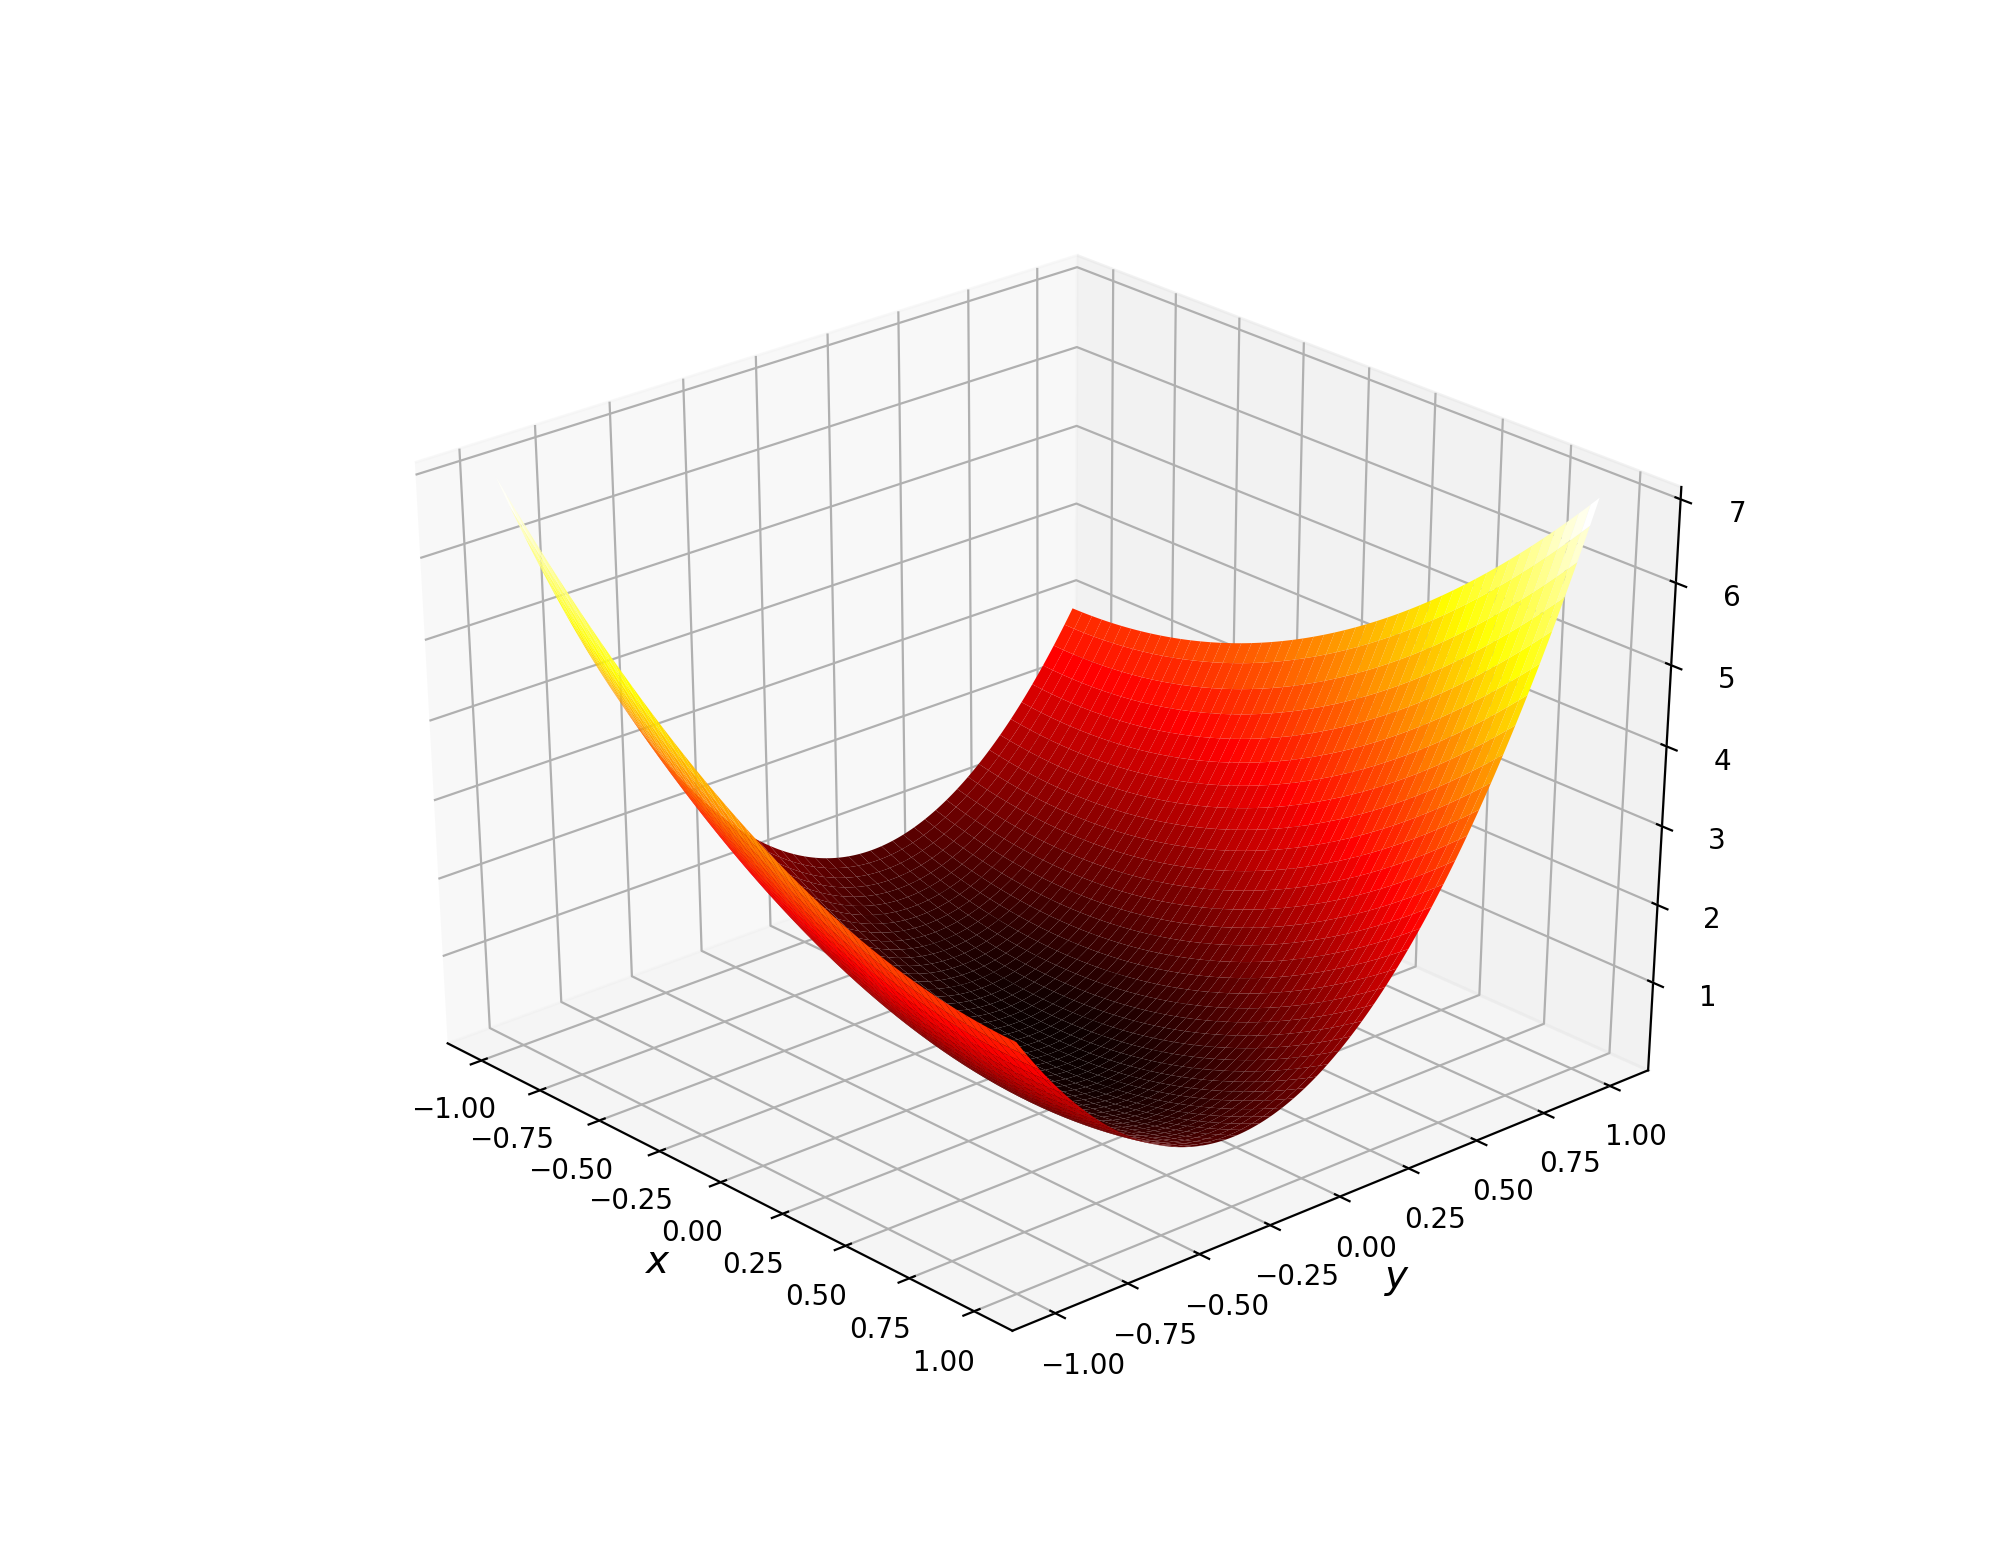
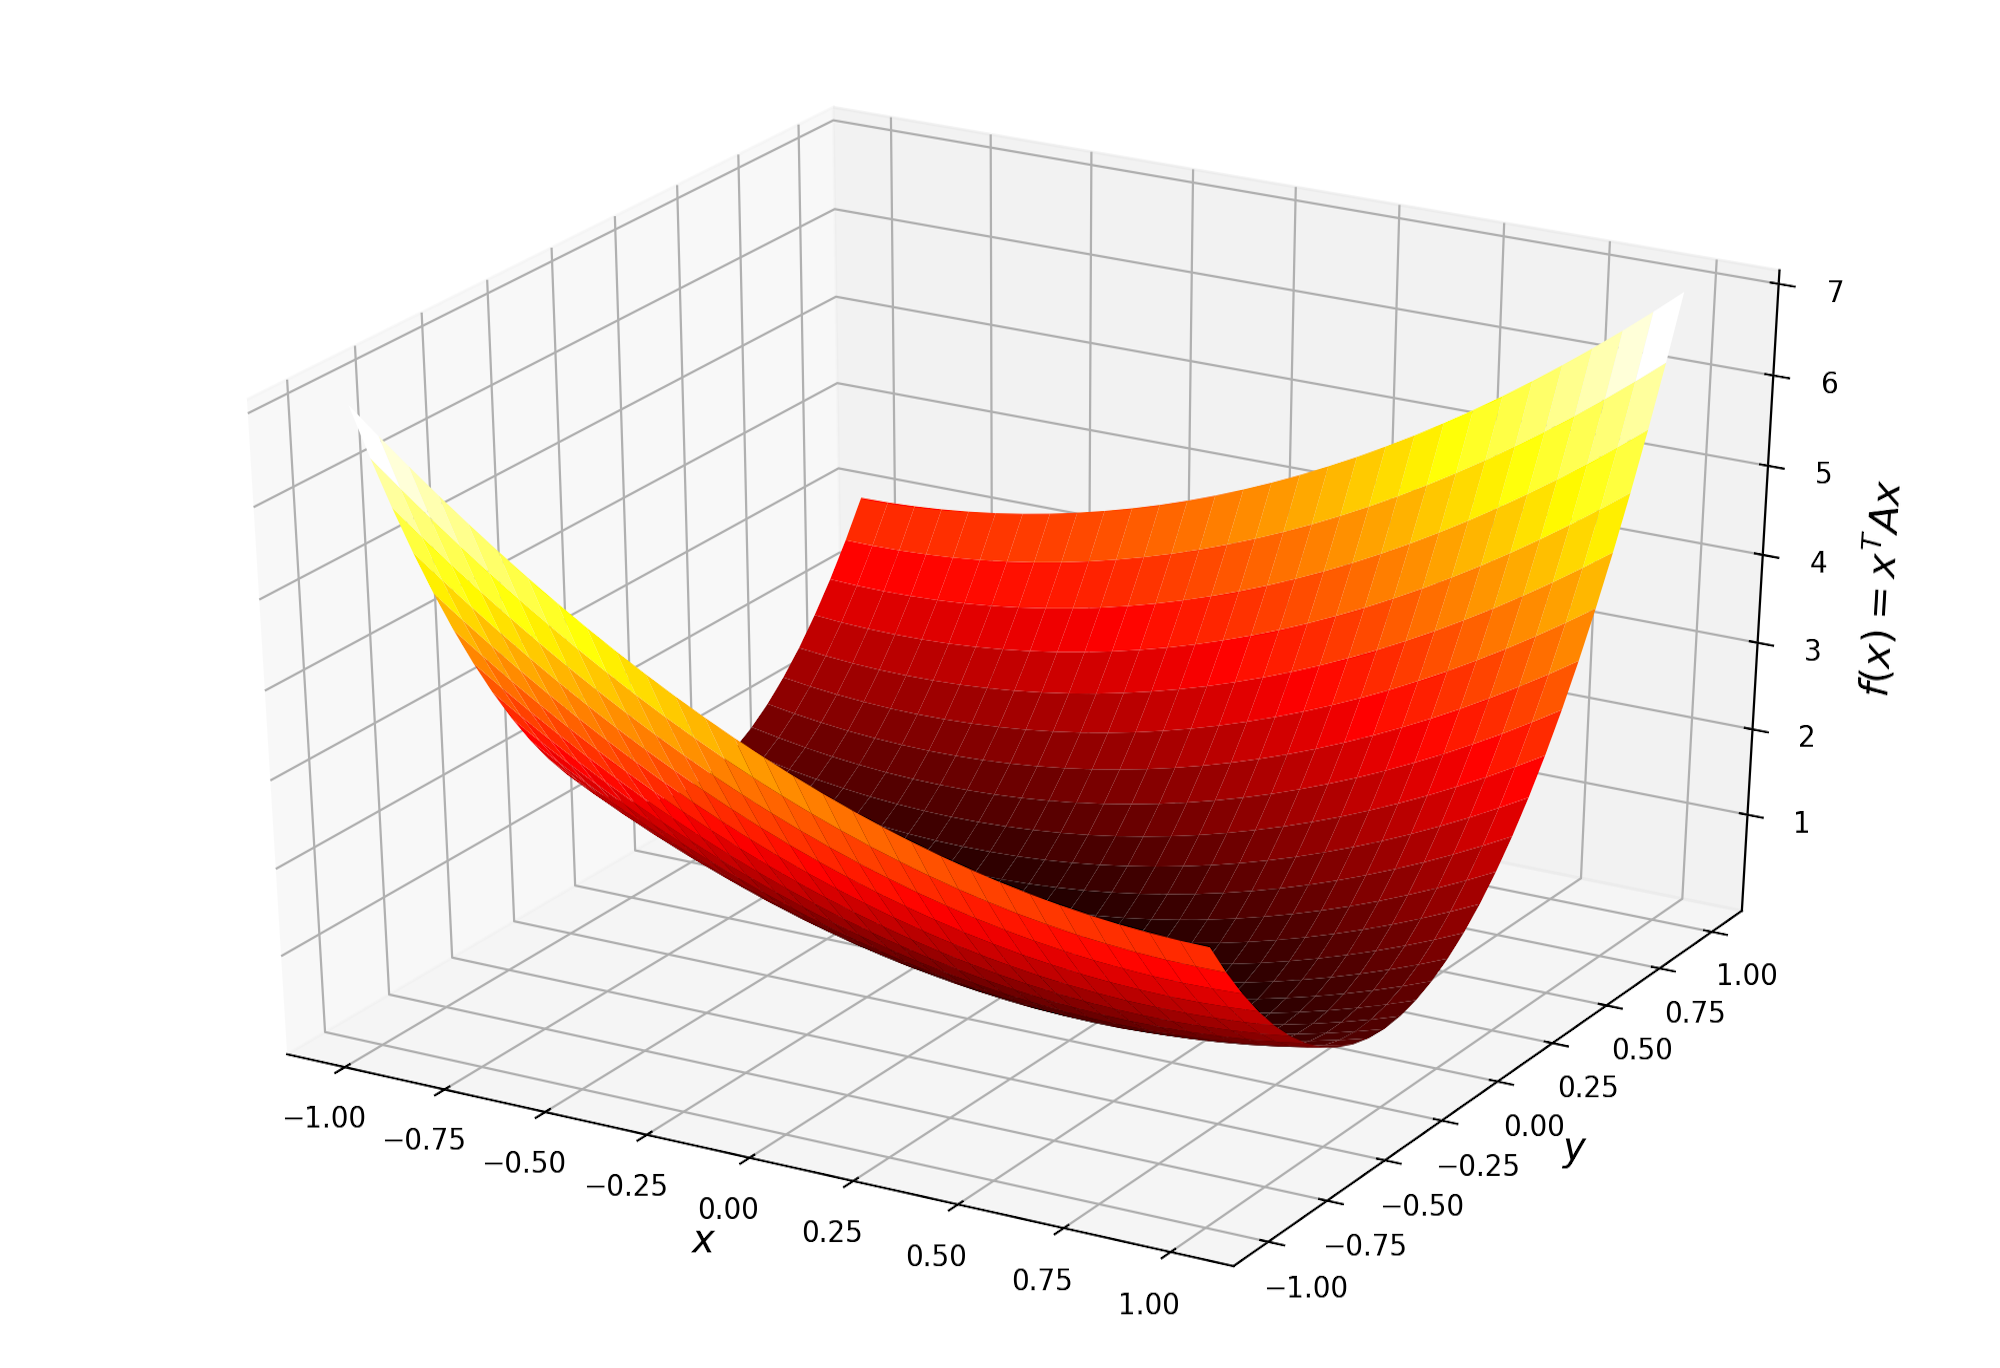
Finish grid sampling

diff --git a/assets/code/grid_sampling_quadratic_plots.py b/assets/code/grid_sampling_quadratic_plots.py
@@ -66,11 +66,11 @@ def plot_sinc_surface():
     fig = plt.figure(figsize=(10, 10))
     ax = fig.add_subplot(111, projection="3d")
     ax.plot_surface(X, Y, Z, cmap="hot")
-    ax.set_title(r"$\sin(\pi * \sqrt{x^2+y^2})/\sqrt{x^2+y^2}$")
+    ax.set_title(r"$\sin\left(\pi * \sqrt{x^2+y^2}\right)/\pi\sqrt{x^2+y^2}$")
     ax.set_xlabel(r"$x$", fontsize=14)
     ax.set_ylabel(r"$y$", fontsize=14)    
 
-    r = np.linspace(0, 6, 50) + 1e-6
+    r = np.hstack([np.arange(0, 1, 0.1/2) + 1e-6, np.linspace(1, 6, 30)])
     theta = np.linspace(0, 2 * np.pi, 100)
     R, Theta = np.meshgrid(r, theta)
 
@@ -79,7 +79,7 @@ def plot_sinc_surface():
     fig = plt.figure(figsize=(10, 10))
     ax = fig.add_subplot(111, projection="3d")
     ax.plot_surface(X, Y, Z, cmap="hot")
-    ax.set_title(r"$\sin(\pi * \sqrt{x^2+y^2})/\sqrt{x^2+y^2}$")
+    ax.set_title(r"$\sin\left(\pi * \sqrt{x^2+y^2}\right)/\pi\sqrt{x^2+y^2}$")
     ax.set_xlabel(r"$x$", fontsize=14)
     ax.set_ylabel(r"$y$", fontsize=14)    
 
@@ -89,7 +89,7 @@ def plot_gaussian_surface():
     
     correlation = 0.0
     var_x = 1
-    var_y = 9
+    var_y = 2
     cov_xy = correlation * np.sqrt(var_x * var_y)
     var_mat = np.asarray([[var_x, cov_xy], [cov_xy, var_y]])
 
@@ -123,8 +123,8 @@ def plot_gaussian_surface():
     plt.contour(X,Y,Z)
     ax = fig.add_subplot(111, projection="3d")
     ax.plot_surface(X, Y, Z, cmap="hot")
-    ax.set_xlim([-16,16])
-    ax.set_ylim([-16,16])
+    ax.set_xlim([-7,7])
+    ax.set_ylim([-7,7])
     ax.set_title(r"Gaussian Distribution")
     ax.set_xlabel(r"$x$", fontsize=14)
     ax.set_ylabel(r"$y$", fontsize=14)    
@@ -149,7 +149,7 @@ def plot_elongated_paraboloid(with_grid=False):
     ax.set_xlabel(r"$x$", fontsize=14)
     ax.set_ylabel(r"$y$", fontsize=14)    
     ax.set_zlabel(r"$f(x) = x^TAx$", fontsize=14)  
-    ax.tight_layout()
+    plt.tight_layout()
 
     r = np.linspace(0, 2, 20)
     theta = np.linspace(0, 2*np.pi, 50)
@@ -174,15 +174,15 @@ def plot_elongated_paraboloid(with_grid=False):
     ax.set_xlabel(r"$x$", fontsize=14)
     ax.set_ylabel(r"$y$", fontsize=14)  
     ax.set_zlabel(r"$f(x) = x^TAx$", fontsize=14)  
-    ax.tight_layout()
+    plt.tight_layout()
 
 
 if __name__ == "__main__":
     center = np.asarray([0.25, -0.25]).reshape((-1,1))
     plot_elongated_paraboloid(with_grid=False)
     plot_elongated_paraboloid(with_grid=True)
-    # plot_sinc_surface()
-    # plot_gaussian_surface()
+    plot_sinc_surface()
+    plot_gaussian_surface()
     plot_rectangular_grid(mode="h")
     plot_rectangular_grid(mode="v")
     plot_ellipse_grid([-3,3],[-3,3], mode="h")

diff --git a/_drafts/2019-10-20-3d-plotting-using-non-rectangular-grids.md b/_drafts/2019-10-20-3d-plotting-using-non-rectangular-grids.md
@@ -12,14 +12,9 @@ toc_label:
 # classes: wide
 excerpt: ""
 header: 
-  overlay_image: assets/images/shakespeare-zipf-param-surface-splash.png
+  overlay_image: assets/images/grid-sampling-polar-sinc.png
   overlay_filter: 0.2
 ---
-
-TODO:
-  - Change first plots to be consistent with coarser plot shown at the end
-  - Add plot at the end including the scatter grid
-  - Some examples. Gaussian, sinc function
 
 # The Problem with Rectangular Grids
 The standard way of creating contour and surface plots of a function $$f:\mathbf{R}^2 \rightarrow \mathbf{R}$$ is first creating a rectangular grid of $$(x,y)$$ coordinates (using something like `meshgrid`), then evaluating the function $$f$$ elementwise at each $$(x,y)$$ pair. For the most part this is fine, but there are some situations where it can really distort your view of the surface's true shape. 
@@ -41,13 +36,14 @@ y
 \end{bmatrix}
 $$
 
-Plotting this on a rectangular grid we get a 3D plot like left image in Figure 1. From the definition of the function, we know the graph should be an upward facing paraboloid. Looking at the figure however, it is not obvious that this is what is plotted. What we would like to see is something more like the image on the right. The rest of this post will explain how this surface is plotted and propose some other cases it might be useful.
+Plotting this on a rectangular grid we get a 3D plot like the left image in Figure 1. From the definition of the function, we know the graph should be an upward facing paraboloid. Looking at the figure however, it is not obvious that this is what is plotted. What we would like to see is something more like the image on the right. The rest of this post will explain how this right image is generated.
 
 <figure class="half">
     <a href="/assets/images/grid-sampling-rectangular-paraboloid.png"><img src="/assets/images/grid-sampling-rectangular-paraboloid.png"></a>
     <a href="/assets/images/grid-sampling-elliptic-paraboloid.png"><img src="/assets/images/grid-sampling-elliptic-paraboloid.png"></a>
     <figcaption>Figure 1</figcaption>
 </figure>
+
 
 # Radially Symmetric Meshes
 The traditional `meshgrid` function is only suitable for generating rectangular grids. Given a range of $$x$$ values $$(x_1,\ldots,x_n)$$ and $$y$$ values $$(y_1,\ldots,y_m)$$, two matrices $$X\in\mathbf{R}^{m\times n}$$ and $$Y\in \mathbf{R}^{m\times n}$$ are returned:
@@ -89,7 +85,7 @@ Figure 2 shows how using this polar transform we can get from a rectangular grid
     <figcaption>Figure 2</figcaption>
 </figure>
 
-To understand how the radially symmetric sampling image is generated, we start first with a rectangular grid. Using `numpy`'s `meshgrid` function we get a grid like the ones in the first row of Figure 2. Rather than use these as $$(x,y)$$ coordinates directly, we can instead treat them as sampling $$(r,\theta)$$ and then transform them to polar as in the second row of Figure 2. As shown in red, a horizontal line in $$(r,\theta)$$ space maps to a radius of fixed angle in $$(x,y)$$ space. Similarly, in green we see a vertical line is mapped to a circle of fixed radius. This sampling schmee is implemented below
+To understand how the radially symmetric sampling image is generated, we start first with a rectangular grid. Using `numpy`'s `meshgrid` function we get a grid like the ones in the first row of Figure 2. Rather than use these as $$(x,y)$$ coordinates directly, we can instead treat them as sampling $$(r,\theta)$$ and then transform them to polar coordinates as in the second row of Figure 2. As shown in red, a horizontal line in $$(r,\theta)$$ space maps to a radius of fixed angle in $$(x,y)$$ space. Similarly, in green we see a vertical line is mapped to a circle of fixed radius. This sampling scheme is implemented below
 
 {% highlight python %}
 import numpy as np
@@ -106,7 +102,7 @@ def generate_radial_grid(r_low, r_high, n_r, n_theta):
 
 
 # Elliptic Grid Sampling
-Sampling a radially symmetric grid is useful when the function is isotropic. However, in the more general case we would like to sample concentric ellipses of points. First, recall the parametric equations for an axis alligned ellipse centered at the origin are
+Sampling a radially symmetric grid is useful when the function is _isotropic_. However, in the more general case we would like to sample concentric ellipses of points. First, recall the parametric equations for an axis alligned ellipse centered at the origin are
 
 $$
 \begin{bmatrix}
@@ -123,7 +119,7 @@ a & 0\\
 \end{bmatrix}
 $$
 
-This case is very similar to the circularly symmetric case and requires a tiny change to the code. Using the same grid as in the previous figure we see the vertical lines are mapped to concentric ellipses
+This case is very similar to the circularly symmetric case and requires only a small change in the code. Using the same grid as in the previous figure we see the vertical lines are mapped to concentric ellipses
 
 <figure class="half">
     <a href="/assets/images/grid-sampling-centered-ellipse-radial.png"><img src="/assets/images/grid-sampling-centered-ellipse-radial.png"></a>
@@ -144,7 +140,7 @@ def generate_axis_aligned_ellipse_grid(r_low, r_high, n_r, n_theta, a, b):
     return x_mesh, y_mesh
 {% endhighlight %}
 
-But to handle the more general case of ellipse (rotated axes) we must recall from linear algebra the _rotation matrix_. The rotation matrix<sup>[1](#footnote1)</sup> for rotating by an angle $$\alpha$$ anti-clockwise measured from the positive $$x$$-axis is given by
+To handle the more general case of ellipses with rotated axes we can use a _rotation matrix_<sup>[1](#footnote1)</sup> . The rotation matrixfor rotating by an angle $$\alpha$$ anti-clockwise measured from the positive $$x$$-axis is given by
 
 $$
 R_\alpha = 
@@ -154,7 +150,7 @@ R_\alpha =
 \end{bmatrix}
 $$
 
-Generating a grid points on a rotated ellipse is now just as simple as generating points for an axis aligned ellipse, then applying the rotation matrix. The parametric equations for this more general case is then
+Generating a grid of points on a rotated ellipse is as simple as generating points for an axis aligned ellipse, then applying the rotation matrix to each point in the grid. The parametric equations for this more general case are
 
 $$
 \begin{bmatrix}
@@ -181,7 +177,7 @@ $$
     <figcaption>Figure 4</figcaption>
 </figure>
 
-And lastly, it is often the case that the surface you want to plot is not centered at the origin in which case we can simply translate the entire sampling grid to the appropriate center coordinates. Adapting the parametric equations for this is as simple as adding a vector of the coordinates of the desired ellipse center
+And lastly, it is often the case that the surface to be plotted is not centered at the origin, in which case we can simply translate the entire sampling grid to the appropriate center coordinates. Adapting the parametric equations for this is case requires only adding a vector of the desired center coordinates
 
 $$
 \begin{bmatrix}
@@ -216,14 +212,14 @@ $$
 import numpy as np
 
 def generate_ellipse_grid(
-  r_low, 
-  r_high, 
-  n_r, 
-  n_theta = 50, 
-  a = 1, 
-  b = 1, 
-  alpha=0, 
-  center=np.zeros((2,1)),
+  r_low: float, 
+  r_high: float, 
+  n_r: int, 
+  n_theta: int = 50, 
+  a: float = 1, 
+  b: float = 1, 
+  alpha: float = 0, 
+  center: np.ndarray = np.zeros((2,1)),
 ):
     r = np.linspace(r_low, r_high, n_r)
     theta = np.linspace(0, 2*np.pi, n_theta)
@@ -244,13 +240,24 @@ def generate_ellipse_grid(
     return X, Y
 {% endhighlight %}
 
+The two images of the quadratic form from the beginning of this post are reproduced below, this time each with their respective sampling grids.
+
+<figure class="half">
+    <a href="/assets/images/grid-sampling-rectangular-paraboloid-w-scatter.png"><img src="/assets/images/grid-sampling-rectangular-paraboloid-w-scatter.png"></a>
+    <a href="/assets/images/grid-sampling-elliptic-paraboloid-w-scatter.png"><img src="/assets/images/grid-sampling-elliptic-paraboloid-w-scatter.png"></a>
+    <figcaption>Figure 6</figcaption>
+</figure>
+
 # Conclusion
+When plotting a surface or contour it is of course fastest and easiest to use `meshgrid`. But in applications it often happens the function possesses certain symmetries and it can often be more informative to use this knowledge to generate the grid. We saw the case of plotting a quadratic form as one instance of this but many other examples abound. Consider plotting level sets of a two dimensional Gaussian distribution
 
+$$f(x) = \frac{1}{2\pi\sqrt{|\Sigma|}} e^{-0.5(x-\mu)^T\Sigma^{-1}(x-\mu)}$$
 
-# References
-1. [Zipf's Law Wikipedia](https://en.wikipedia.org/wiki/Zipf%27s_law)
-2. [Gauss-Newton Algorithm Wikipedia](https://en.wikipedia.org/wiki/Gauss%E2%80%93Newton_algorithm)
-3. [Stanford's Intro to Linear Dynamical Systems]()
+This distribution will exhibit elliptic symmetry since the exponent is a quadratic form. The _sinc_ function is ubiquitous in electrical engineering and its polar form is given by
 
-## Footnotes
+$$\text{sinc}(r) = \frac{\sin(\pi r)}{\pi r} = \frac{\sin\left(\sqrt{x^2+y^2}\right)}{\sqrt{x^2+y^2}}$$
+
+This too exhibits a radial symmetry, lending itself to the circularly symmetric grids described in the post. More often than not, this method of plotting is overkill and all you need is a rough idea of what the surface looks like. Nevertheless, the above technique is a good tool to have available for the situations you do find it necessary
+
+# Footnotes
 <a name="footnote1">1</a>: As with any linear transformation, you can derive this matrix by concatenating the result of rotating each of the standard basis vectors.
